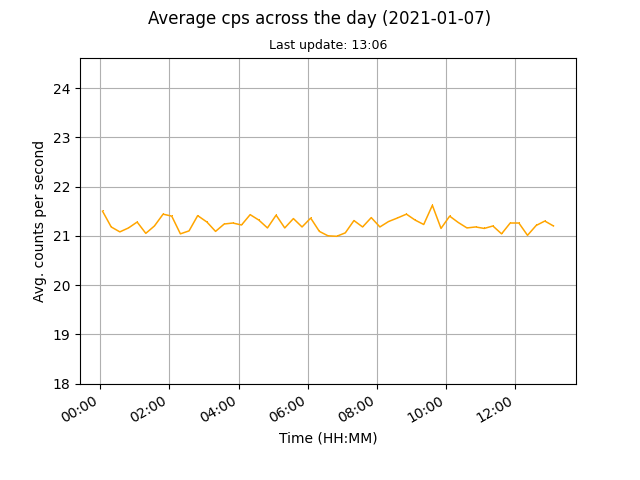
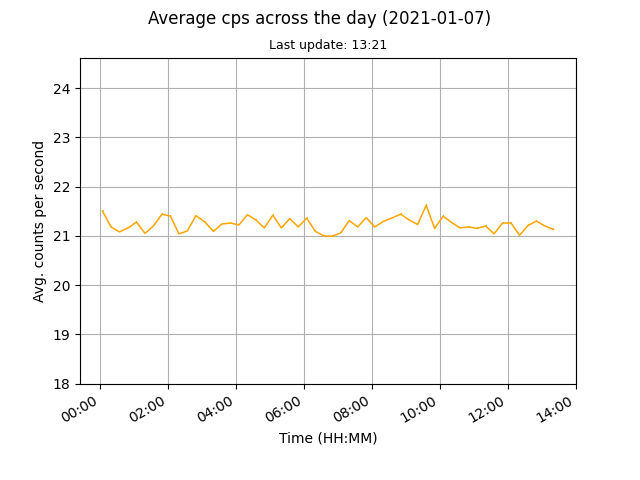
auto data update

diff --git a/docs/index.html b/docs/index.html
@@ -45,8 +45,8 @@
 	
 	<br>
 	
-	<p>Current counts per second (cps): 21.2</p>
-	<p>Last update: 2021-01-07, 13:06</p>
+	<p>Current counts per second (cps): 21.13</p>
+	<p>Last update: 2021-01-07, 13:21</p>
 
 	<p><a href="images/monthly.png"><img src="images/monthly.png" alt="Mothly avg cps data"></a><a href="images/daily.png"><img src="images/daily.png" alt="Daily avg cps data"></a></p>
 	
